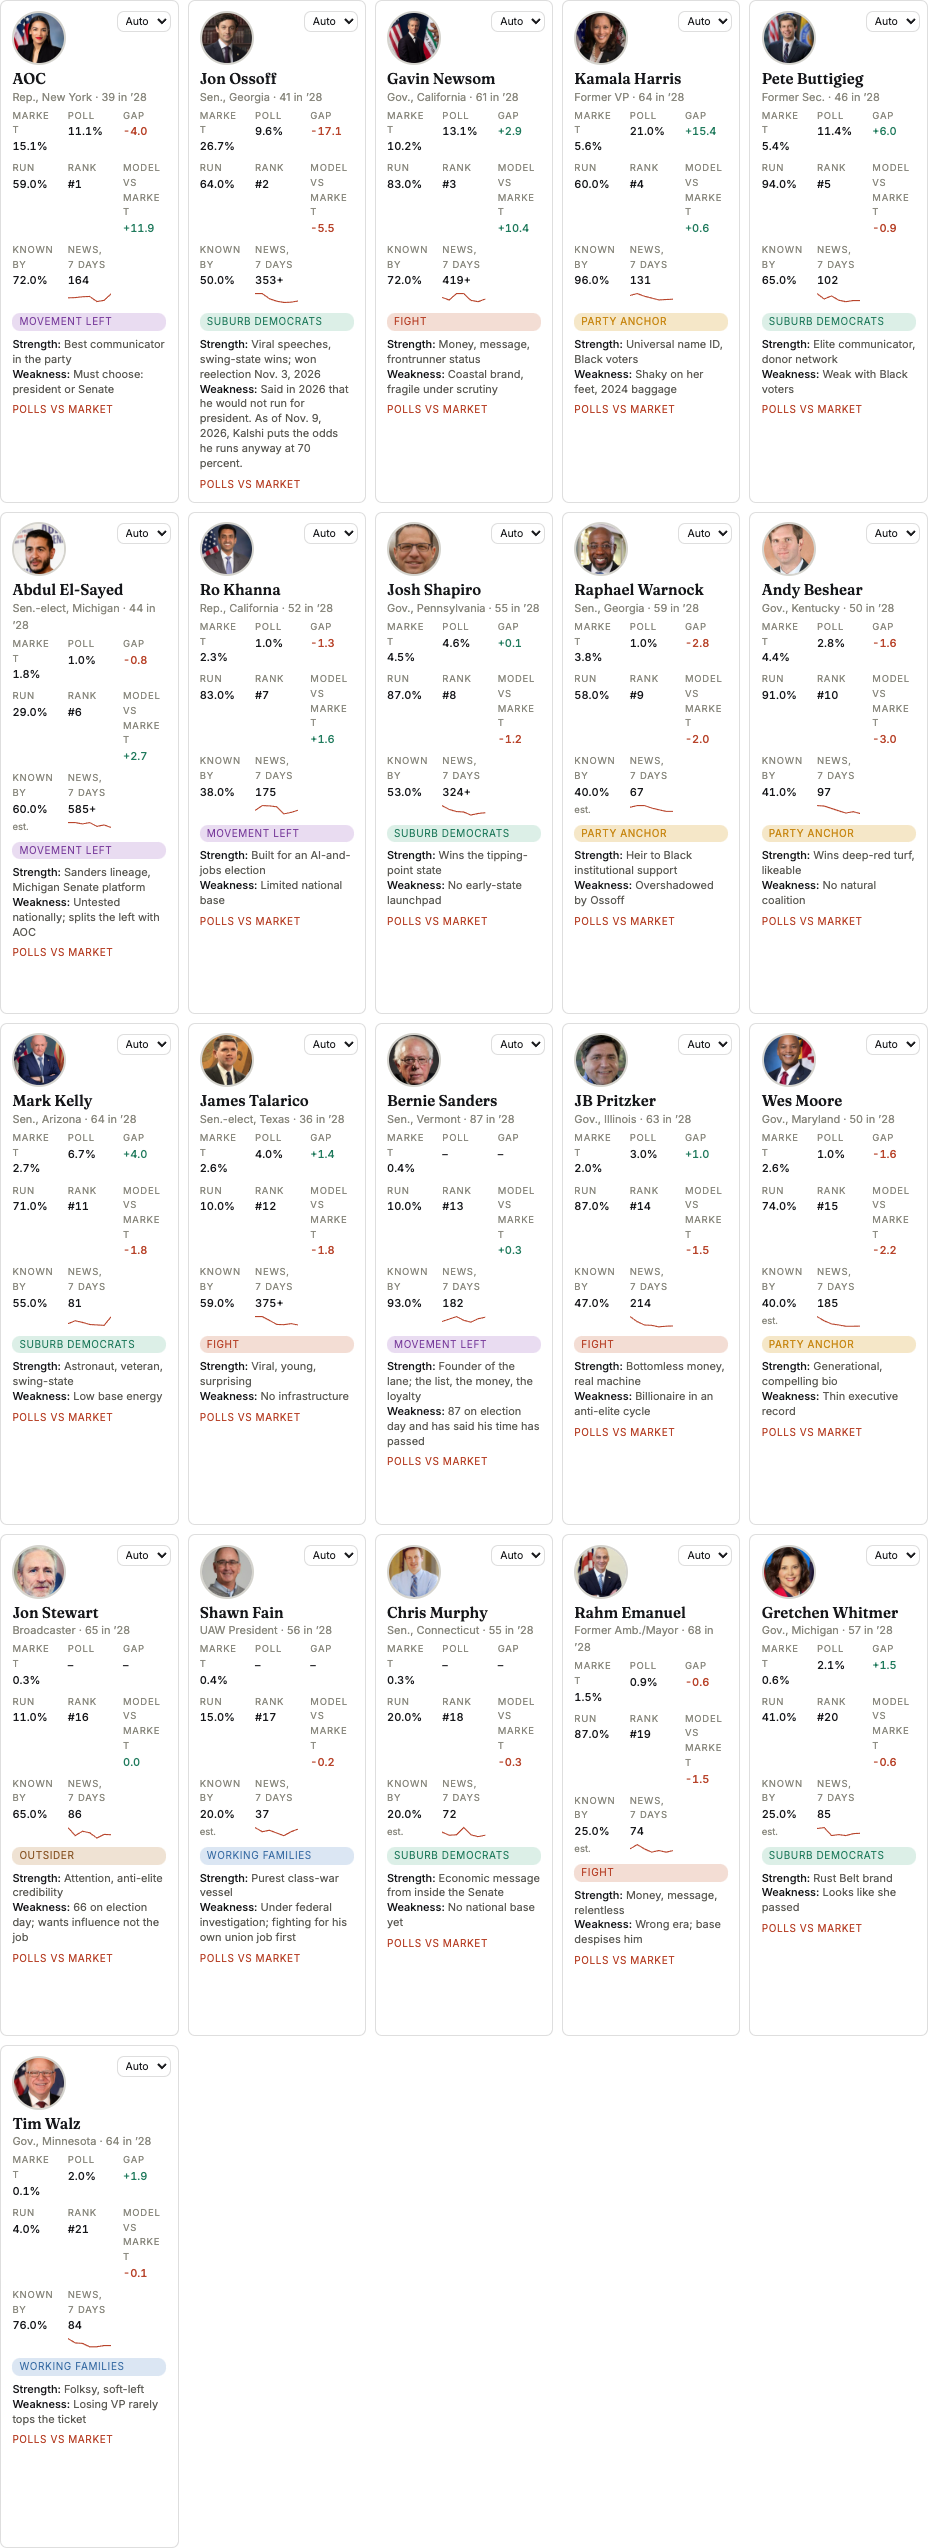
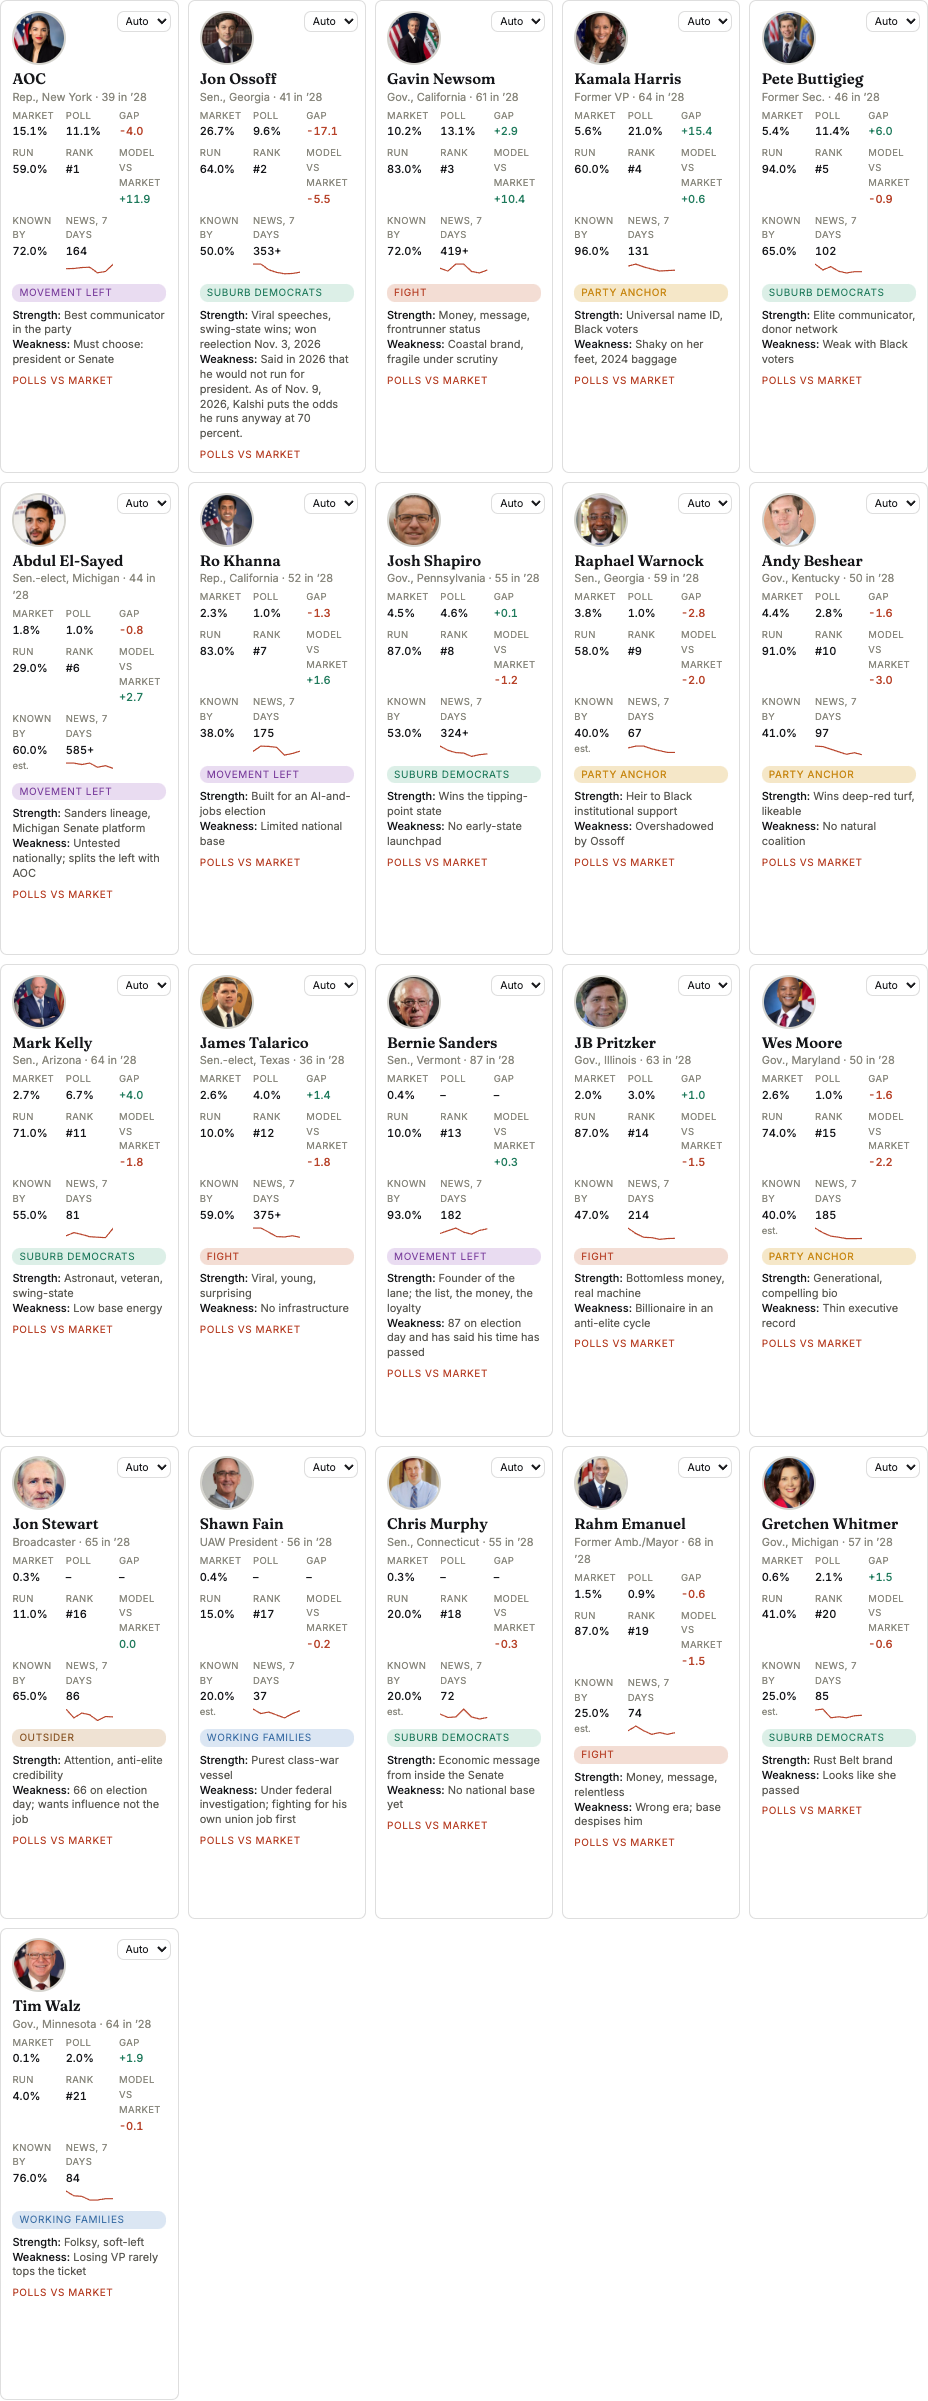
Field cards: keep labels whole in narrow columns; est. on its own line under the number

diff --git a/index.html b/index.html
@@ -85,10 +85,10 @@ input[type=range]{accent-color:var(--wire);}
 .cc .mono{width:54px;height:54px;border-radius:50%;border:2px solid var(--rule);margin-bottom:6px;display:flex;align-items:center;justify-content:center;font-family:'Fraunces',Georgia,serif;font-weight:600;font-size:19px;color:var(--muted);background:var(--paper);}
 .cc .nm{font-family:'Fraunces',Georgia,serif;font-weight:600;font-size:15px;line-height:1.1;}
 .cc .meta{font-size:11px;color:var(--faint);margin-top:1px;}
-.cc .odds{display:grid;grid-template-columns:repeat(3,1fr);gap:6px 12px;margin-top:6px;font-family:'Inter',system-ui,sans-serif;font-variant-numeric:tabular-nums;font-size:11px;}
+.cc .odds{display:grid;grid-template-columns:repeat(3,1fr);gap:6px;margin-top:6px;font-family:'Inter',system-ui,sans-serif;font-variant-numeric:tabular-nums;font-size:11px;}
 .cc .odds span{display:flex;flex-direction:column;min-width:0;}
-.cc .odds span i{font-style:normal;font-size:9.5px;letter-spacing:.08em;text-transform:uppercase;color:var(--faint);overflow-wrap:anywhere;}
-.cc .odds .est{font-size:9.5px;font-weight:400;color:var(--faint);white-space:nowrap;}
+.cc .odds span i{font-style:normal;font-size:9.5px;letter-spacing:.04em;text-transform:uppercase;color:var(--faint);overflow-wrap:anywhere;}
+.cc .odds .est{display:block;font-size:9.5px;font-weight:400;color:var(--faint);}
 .cc .odds b{overflow-wrap:anywhere;}
 .cc .odds .spark{max-width:100%;}
 .cc .odds.pair{grid-template-columns:repeat(3,1fr);}
